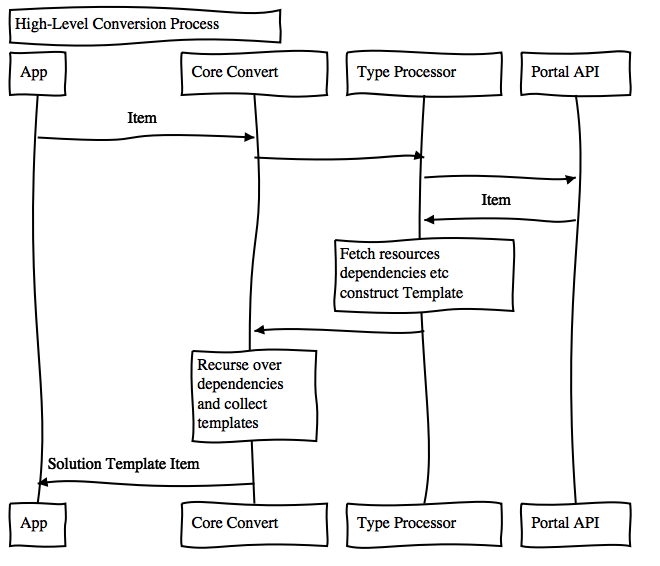
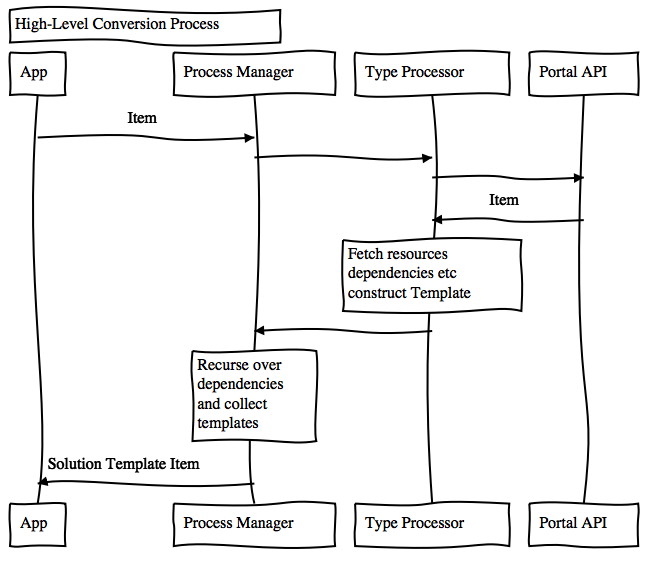
update seq diagrams

diff --git a/readme.md b/readme.md
@@ -10,14 +10,14 @@ If you are new to Solutions, or have been deep in the previous version, take a m
 
 ### Convert Item to Template
 
-The Core api orchestrates one or more type specific Processors, which communicate with the Portal API to construct a set of json templates, which collectively can be re-deployed to re-create the original item and its dependencies.
+The Process Manager orchestrates one or more type specific Processors, which communicate with the Portal API to construct a set of json templates, which collectively can be re-deployed to re-create the original item and its dependencies.
 
 ![Conversion to Template](./diagrams/convert-high-level.png)
 
 
 ### Deploy Item from Template
 
-The inverse of converting an item to a template. The Core api orchestrates type specific Processors which create new item instances, based on json templates.
+The inverse of converting an item to a template. The Process Manager orchestrates type specific Processors which create new item instances, based on json templates.
 
 ![Deployment from Template](./diagrams/deploy-high-level.png)
 
@@ -37,6 +37,7 @@ The original use case for Solution.js was focused on working in a browser. Howev
 
 ## Additional Documents
 - [Interfaces](./interfaces.md)
+- [Class Wrappers](./class-wrappers.md)
 - [v2 Core API](./core-api.md)
 - [v2 Processor API](./processor-api.md)
 - [Processor Discovery](./processor-discovery.md)
